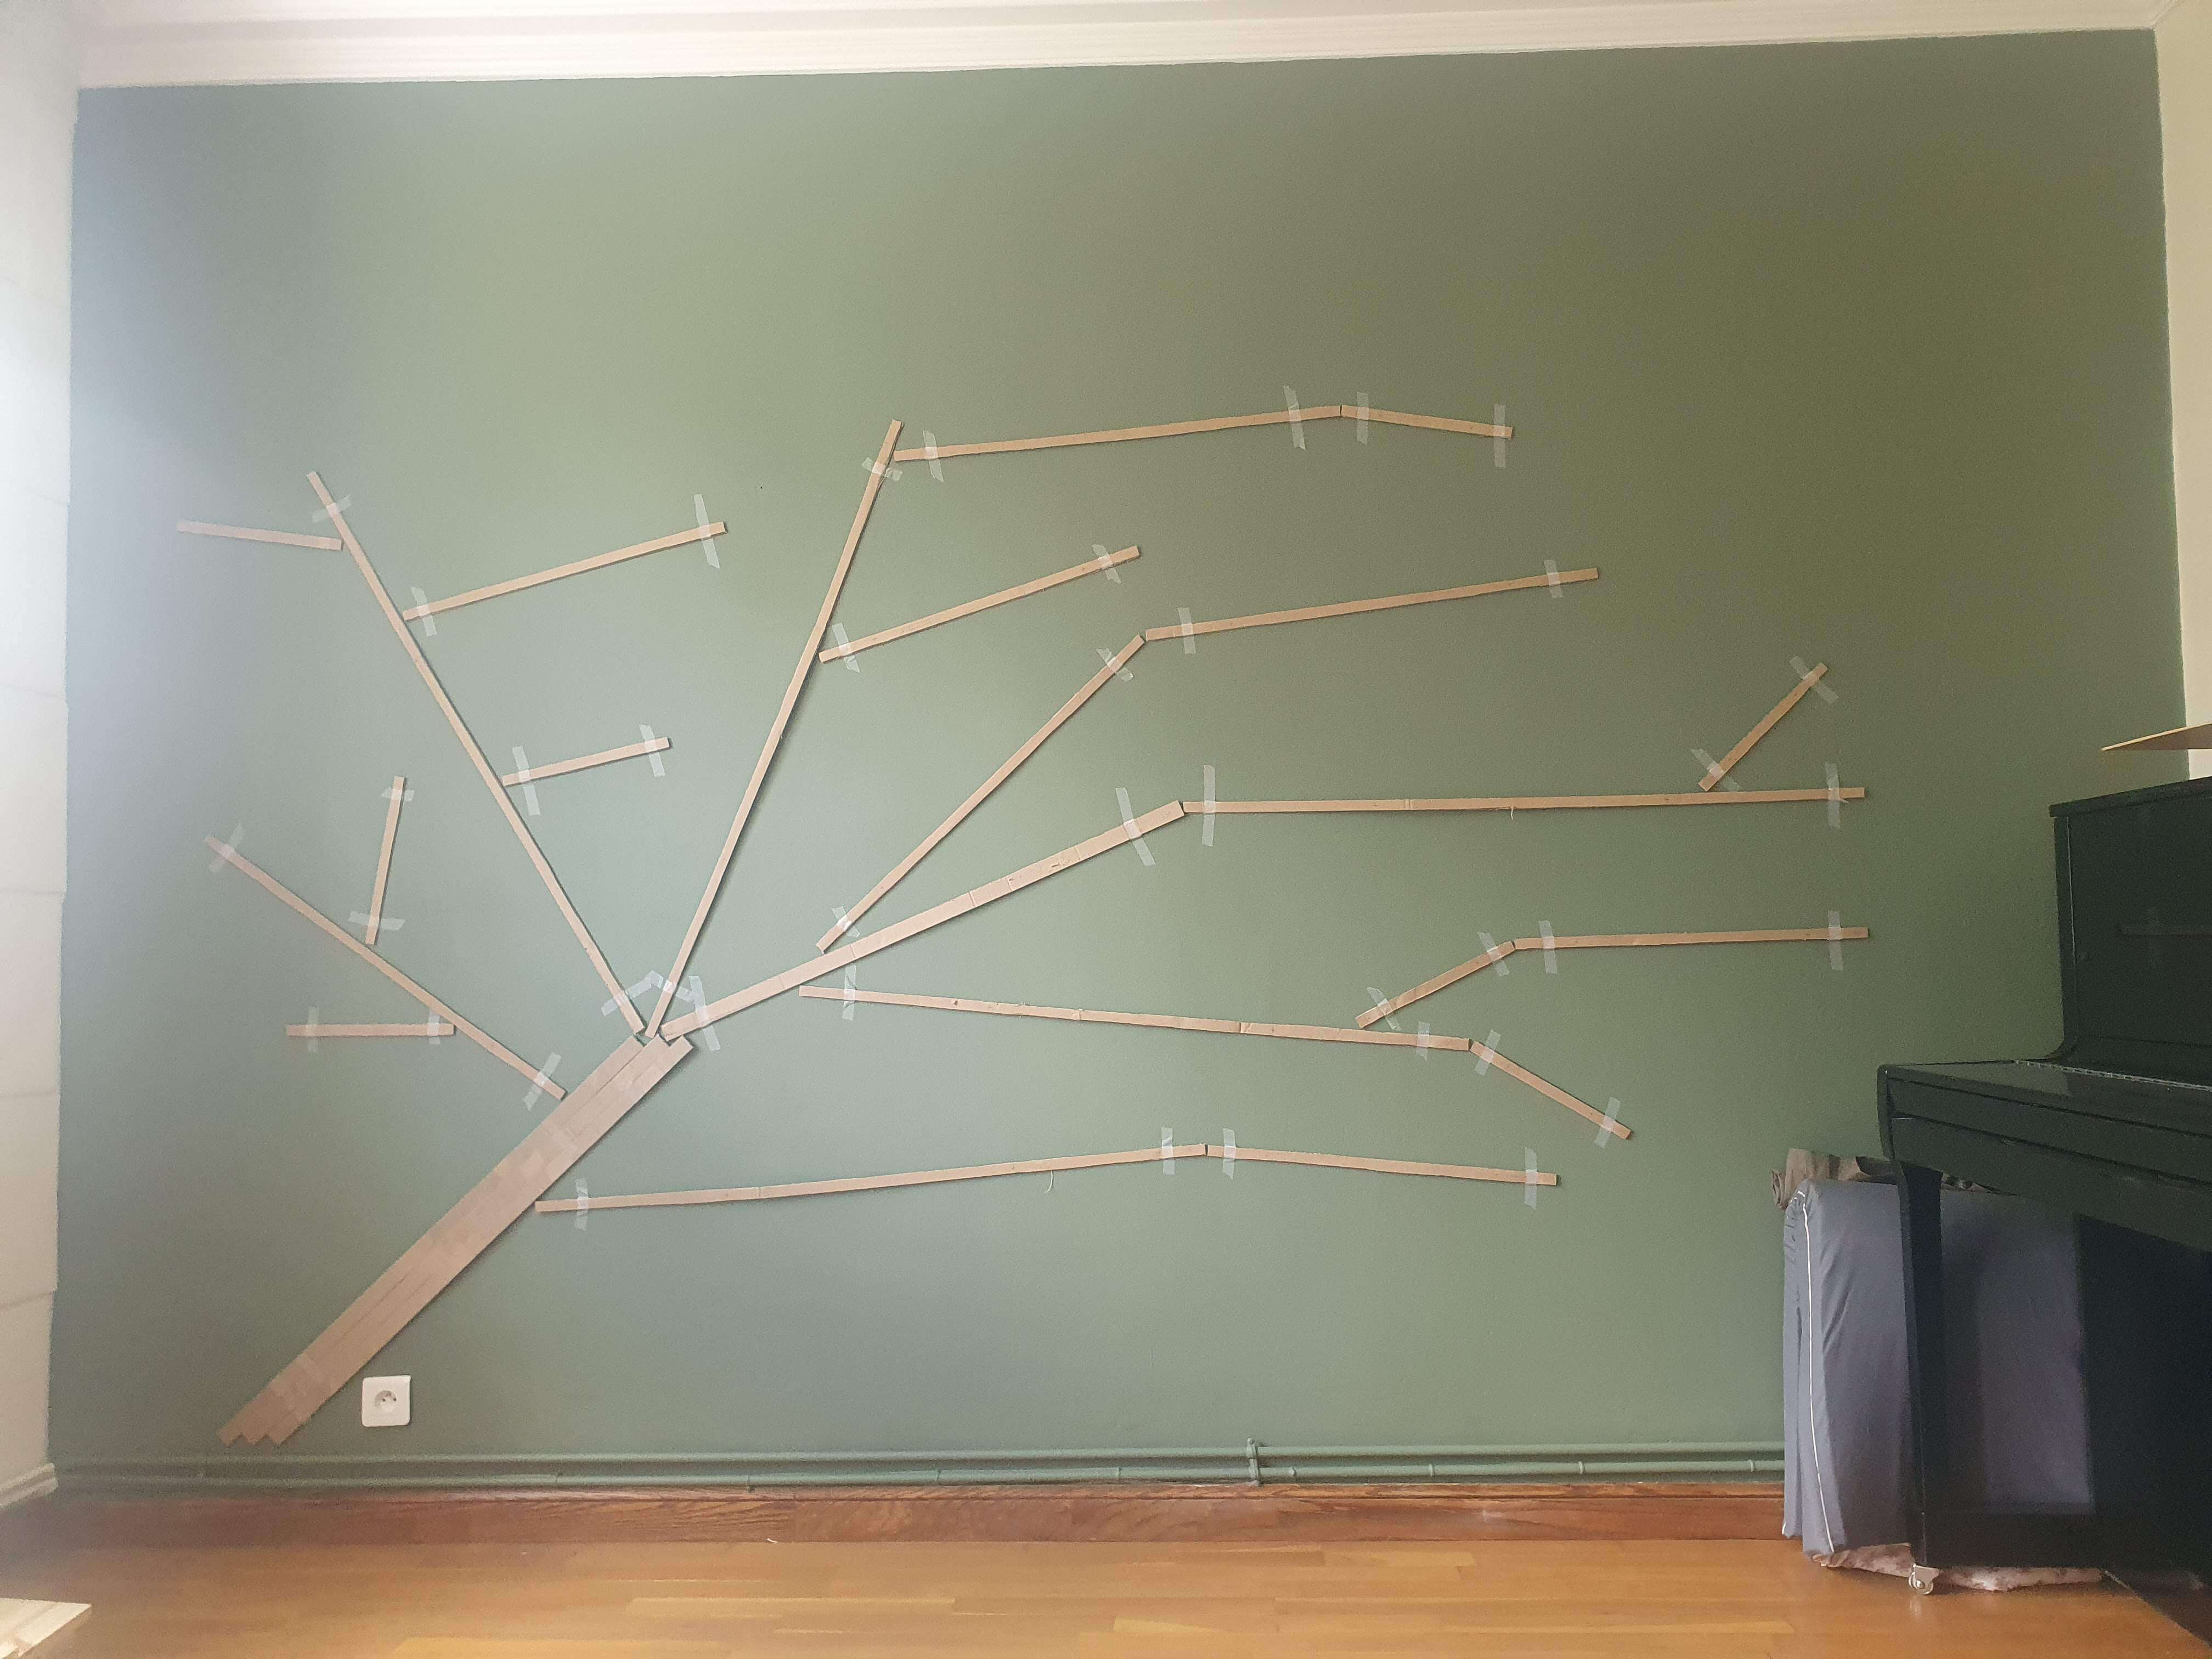
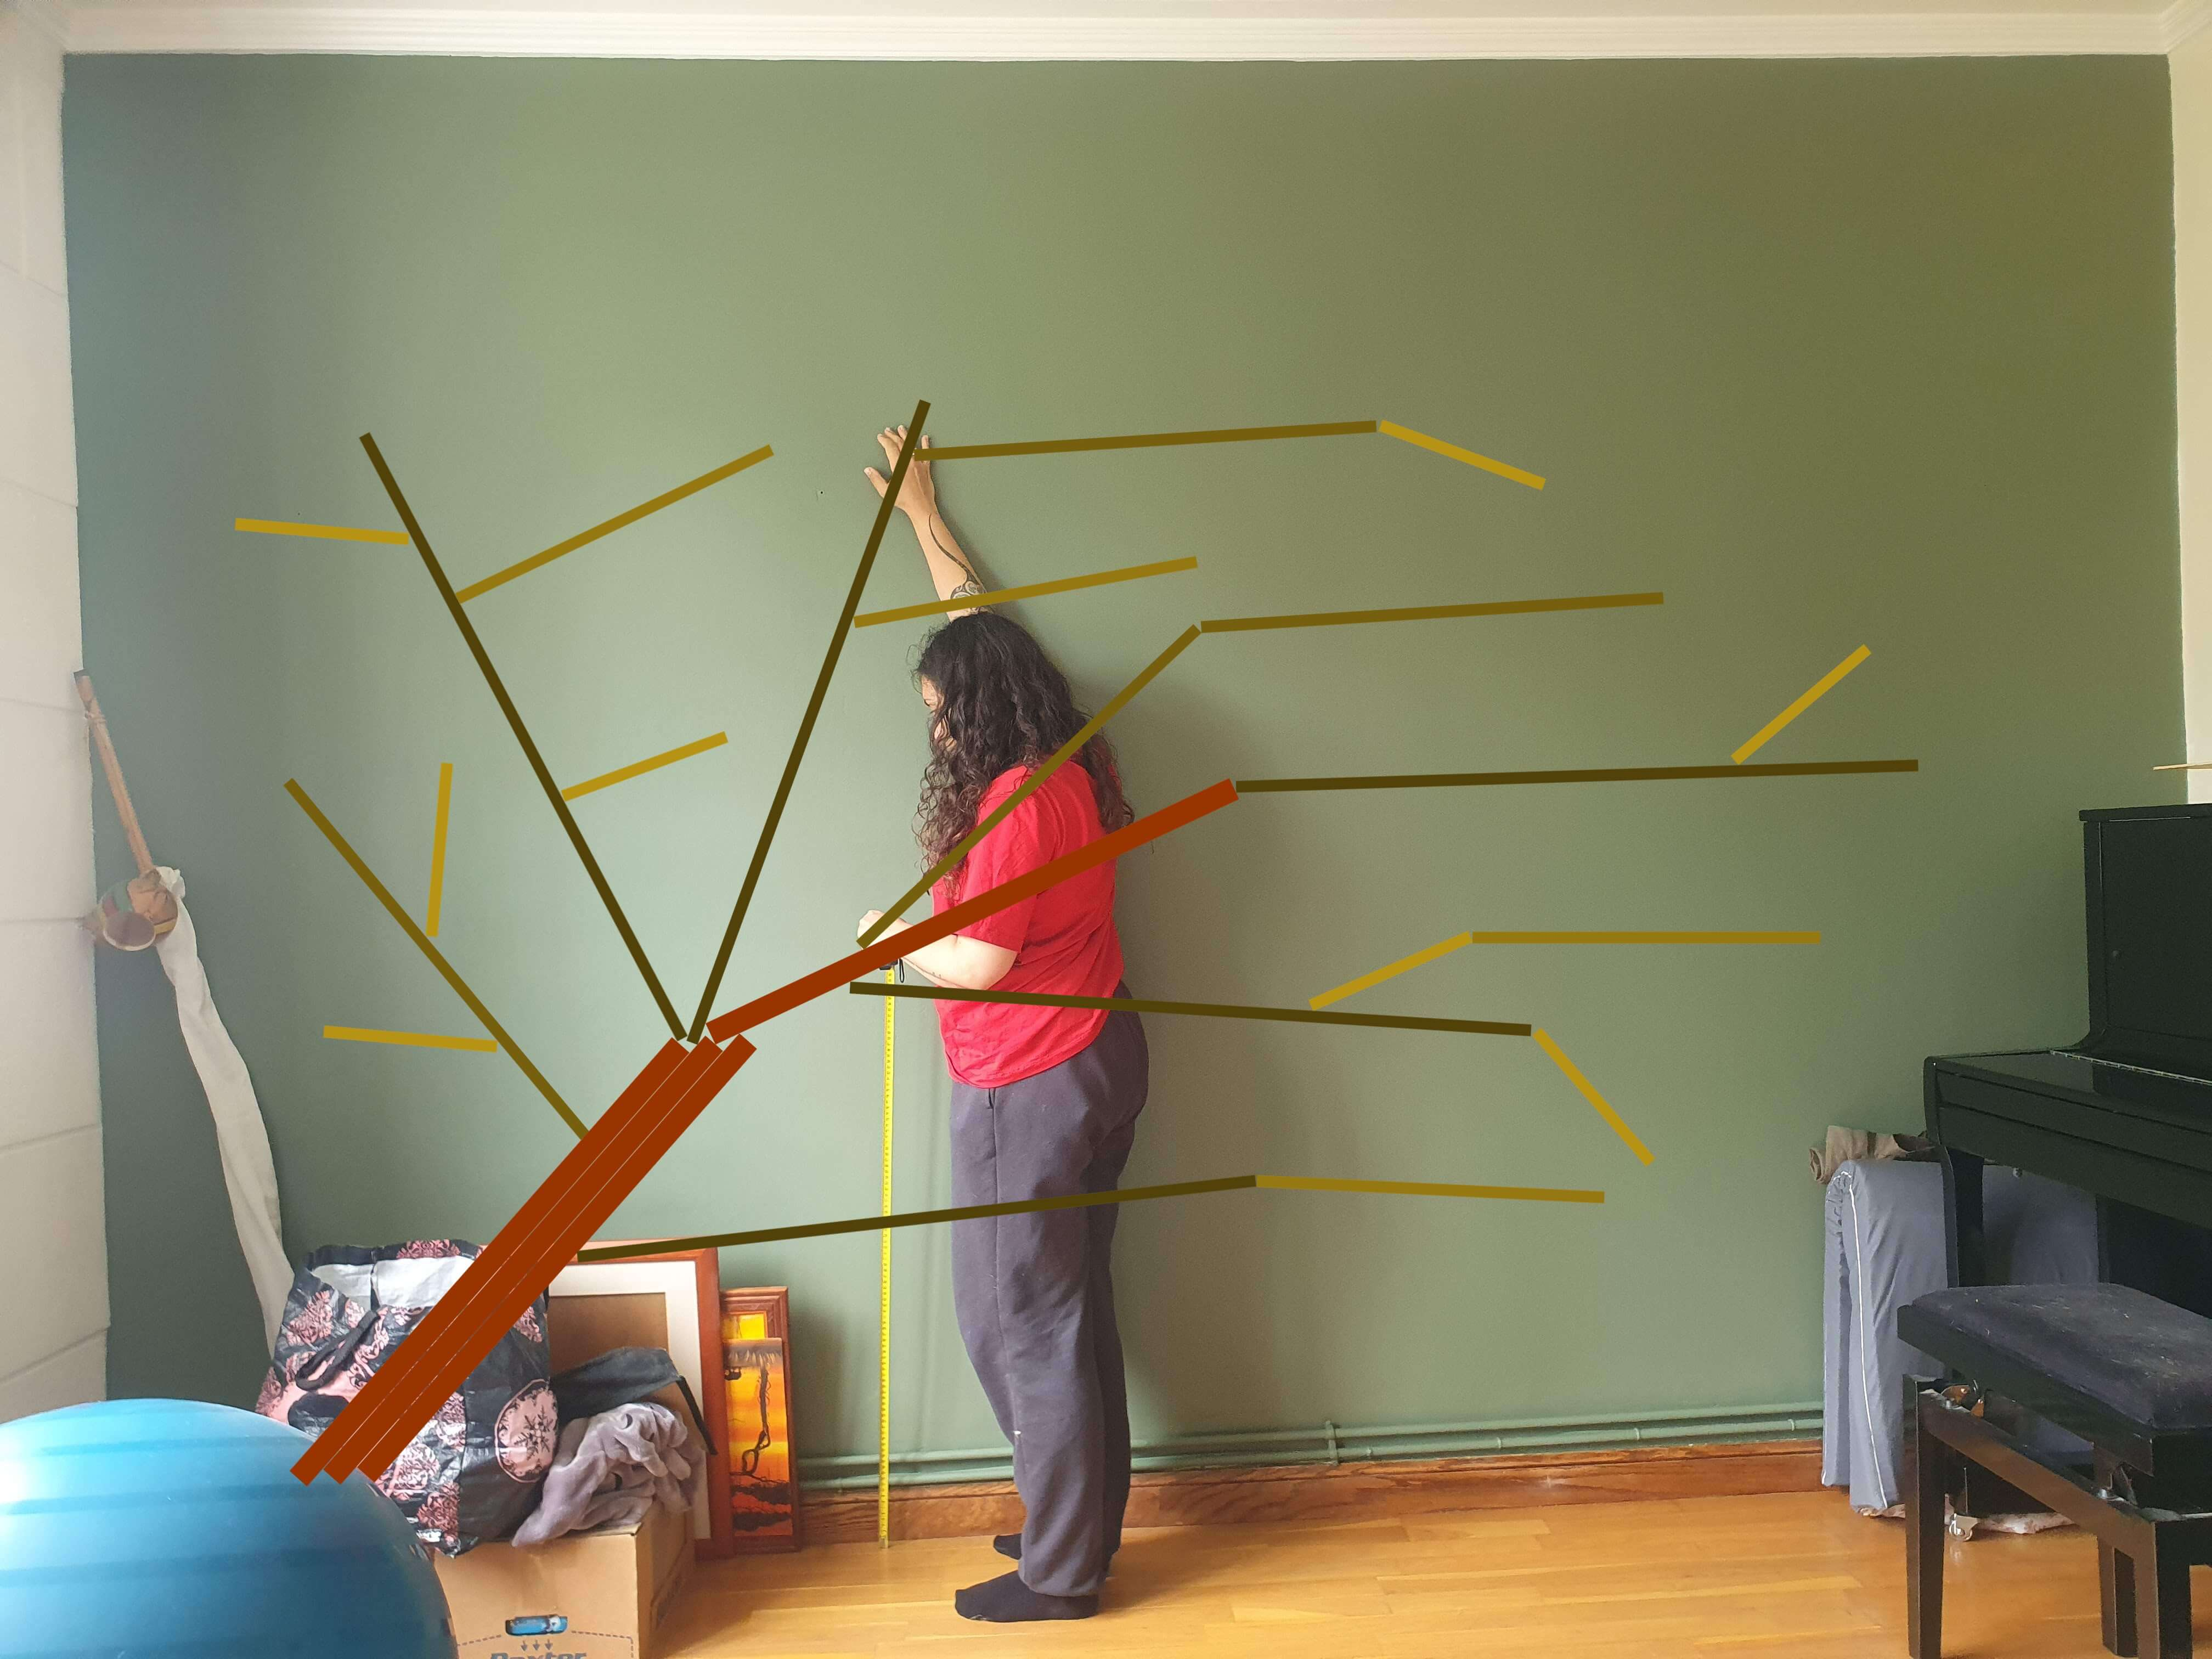
Add images

diff --git a/eleventy.config.js b/eleventy.config.js
@@ -1,9 +1,6 @@
 import { eleventyImageTransformPlugin } from "@11ty/eleventy-img";
 
 export default function (eleventyConfig) {
-    // eleventyConfig.addPassthroughCopy("**/*.{png,jpg,jpeg}", {
-    //     mode: "html-relative"
-    // });
     eleventyConfig.addPlugin(eleventyImageTransformPlugin, {
         formats: ["webp"],
     });

diff --git a/CLAUDE.md b/CLAUDE.md
@@ -1,0 +1,36 @@
+# CLAUDE.md
+
+This file provides guidance to Claude Code (claude.ai/code) when working with code in this repository.
+
+## Commands
+
+```bash
+npm run dev    # Start dev server with live reload
+npm run build  # Build static site to _site/
+```
+
+## Architecture
+
+This is an [Eleventy (11ty)](https://www.11ty.dev/) v3 static site for a French woodworking portfolio. Uses ES modules (`"type": "module"` in package.json).
+
+**Content model:** Each woodworking project lives in its own directory (e.g., `bench/`, `bookcase/`) containing an `index.md` with frontmatter and images. All project pages must have `tags: post` in frontmatter to appear in the homepage collection.
+
+**Navigation:** The homepage (`index.md`) dynamically lists all posts via `collections.post` — no manual navigation updates needed when adding projects.
+
+**Templates:** `_includes/post.html` is the only layout. It's a minimal HTML shell; `{{ content }}` receives the rendered markdown.
+
+**Image pipeline:** `eleventyImageTransformPlugin` automatically converts all `<img>` tags at build time to WebP. Source images (jpg/png) are kept in project directories; optimized WebP files are written to `_site/`.
+
+## Adding a New Project
+
+1. Create a directory (e.g., `myproject/`)
+2. Add `index.md` with this frontmatter:
+   ```yaml
+   ---
+   layout: post.html
+   title: Project Title
+   date: YYYY-MM-DD
+   tags: post
+   ---
+   ```
+3. Add images to the same directory and reference them in markdown — they'll be auto-converted to WebP on build.

diff --git a/bench/index.md b/bench/index.md
@@ -29,6 +29,8 @@ Le design reste volontairement simple et ajouré afin d’éviter un aspect trop
 
 Pour la matière, j’ai choisi des planches de chêne récupérées dans une recyclerie, ce qui permettait d’utiliser un bois plus noble tout en restant dans une logique de réemploi.
 
+<img src="./design.png" alt="3 designs pour comparaison" width="800">
+
 ## Réalisation
 
 Une fois les plans validés, la fabrication a consisté à suivre les différentes étapes prévues : découpe des planches, préperçages et préparation des assemblages.
@@ -39,6 +41,8 @@ Un premier montage à blanc a permis de vérifier les alignements et les ajustem
 
 L’ensemble forme un banc robuste, avec deux niveaux d’assise adaptés à différents usages.
 
+<img src="./cuts.png" alt="Détails des coupes à faire" width="800">
+
 ## Ce que j’ai appris
 
 Ce projet m’a rappelé l’importance de toujours prévoir un léger jeu lors de l’intégration d’un meuble dans un espace existant.
@@ -46,3 +50,5 @@ Ce projet m’a rappelé l’importance de toujours prévoir un léger jeu lors 
 Le banc avait été conçu pour s’ajuster exactement au rangement IKEA, ce qui a rendu son installation plus compliquée que prévu une fois la structure assemblée. Un léger ponçage a permis de corriger rapidement le problème.
 
 Ce type d’ajustement reste une bonne leçon : même avec un plan précis, il est préférable de garder une petite marge pour absorber les variations réelles du matériau et de l’environnement.
+
+<img src="./result.jpeg" alt="Résultat" width="800">

diff --git a/bookcase/index.md b/bookcase/index.md
@@ -24,6 +24,8 @@ Certaines étagères permettent de poser les livres à plat, tandis que d’autr
 
 Pour renforcer l’effet de tronc, j’ai choisi d’utiliser une grande planche de pin à bord vivant, afin d’apporter un contraste plus organique avec les lignes droites des étagères.
 
+<img src="./design.jpg" alt="Design" width="800">
+
 ## Réalisation
 
 La réalisation a commencé par la préparation du tronc.
@@ -36,6 +38,8 @@ Chaque élément a été positionné avec soin pour conserver la continuité du 
 
 Une fois les livres installés, quelques éléments décoratifs comme une plante et du lierre artificiel ont été ajoutés pour accentuer l’effet végétal et renforcer l’illusion de l’arbre.
 
+<img src="./setup.jpg" alt="Aperçu avec morceaux de carton" width="800">
+
 ## Ce que j’ai appris
 
 Ce projet m’a surtout permis de travailler sur la dimension d’agencement et de composition.
@@ -45,3 +49,5 @@ Le travail du bois en lui-même reste relativement limité, mais la phase de con
 Transformer une idée esthétique en installation fonctionnelle implique de jongler entre contraintes techniques, dimensions disponibles et usage réel.
 
 C’est un exercice très proche du travail d’agencement intérieur, où la précision de la planification et de la pose joue un rôle aussi important que la fabrication elle-même.
+
+<img src="./result.jpg" alt="Résultat" width="800">

diff --git a/woodpile/index.md b/woodpile/index.md
@@ -29,6 +29,8 @@ La structure repose sur 6 poteaux montés sur pieds, avec une organisation en tr
 
 Le choix s’est porté sur du pin, matériau courant en extérieur, avec une mise en œuvre volontairement simple, le projet ne nécessitant pas une précision millimétrique.
 
+<img src="./design.png" alt="Design de l'abri sous Sketchup" width="800">
+
 ## Réalisation
 
 Le montage s’est déroulé sur environ trois jours.
@@ -39,6 +41,8 @@ La partie abri a ensuite été fermée à l’aide de bardage, fixé entre les q
 
 L’ensemble du projet a été réalisé avec des matériaux standards de bricolage extérieur, dans une logique d’efficacité et de robustesse.
 
+<img src="./progress.jpg" alt="Projet en cours de réalisation" width="800">
+
 ## Ce que j’ai appris
 
 Ce projet a surtout été riche en enseignements sur le comportement du bois en extérieur.
@@ -48,4 +52,6 @@ Le bardage, initialement posé de manière trop serrée et avec une fixation ins
 De la même manière, une des sections de mur s’est révélée trop longue sans renforts intermédiaires, ce qui a nécessité l’ajout d’une traverse après coup pour rigidifier l’ensemble.
 
 Ces ajustements m’ont permis de mieux anticiper les contraintes mécaniques et les variations dimensionnelles du bois, en particulier sur des structures extérieures exposées.
+
+<img src="./result.jpg" alt="Abri et palissade finis" width="800">
 

diff --git a/busyboard/index.md b/busyboard/index.md
@@ -26,6 +26,8 @@ Les peintures utilisées proviennent d’ailleurs des restes utilisés pour repe
 
 Une attention particulière a également été portée à la sécurité et au confort : tous les éléments ont été choisis ou positionnés pour être manipulables par un enfant dès environ 8 mois, tout en évitant les pièces dangereuses ou trop bruyantes.
 
+<img src="./design.jpg" alt="Mise en places des modules pour agencement" width="800">
+
 ## Réalisation
 
 Le tableau est constitué d’une planche principale sur laquelle différents modules interactifs ont été fixés.
@@ -53,3 +55,5 @@ La poulie, quant à elle, a tendance à coincer légèrement, ce qui limite son 
 Ces retours d’usage sont précieux, car ils permettent de mieux comprendre ce qui attire réellement l’attention d’un enfant et ce qui mérite d’être amélioré.
 
 Même si l’économie réalisée est finalement limitée, ce projet reste un exercice très formateur, combinant conception, fabrication et observation du comportement utilisateur.
+
+<img src="./result.jpg" alt="Résultat" width="800">

diff --git a/wooden-tree/index.md b/wooden-tree/index.md
@@ -37,7 +37,7 @@ Le montage reste simple dans son principe, mais relativement long en raison du n
 
 Une fois assemblé, l’ensemble est stable et lisible, avec une silhouette nette et homogène.
 
-<img src="./result.jpg" width="800" alt="Résultat">
+<img src="./result.jpg" alt="Résultat" width="800">
 
 ## Ce que j’ai appris
 
@@ -48,3 +48,5 @@ La phase de préparation, notamment le calcul et la répartition des longueurs, 
 Cela m’a amené à anticiper davantage en amont, en cherchant un équilibre entre esthétique, cohérence des dimensions et limitation des pertes.
 
 C’est un projet où la simplicité apparente repose en réalité sur une bonne préparation.
+
+<img src="./decorated.jpg" alt="Sapin de bois décoré" width="800">

diff --git a/charger/index.md b/charger/index.md
@@ -26,6 +26,8 @@ Le choix des matériaux a aussi été l’occasion d’introduire une variation 
 
 Enfin, une phase de recherche a été nécessaire pour sélectionner un chargeur adapté, avec une puissance suffisante pour une charge rapide et une connectique USB-C cohérente avec les standards actuels.
 
+<img src="./design.png" alt="Design Sketchup" width="800">
+
 ## Réalisation
 
 Une première version fonctionnelle a été réalisée, servant de prototype.

diff --git a/valet/index.md b/valet/index.md
@@ -27,6 +27,8 @@ Trois vis servent de points d’accroche pour les outils, tandis que des lames d
 
 Une petite tablette horizontale, réalisée à partir d’une chute de lame de terrasse, vient compléter l’ensemble pour le rangement des accessoires légers. Le tout est assemblé sur une structure en tasseaux fins.
 
+<img src="./design.png" alt="Design" width="800">
+
 ## Réalisation
 
 Le montage est resté volontairement simple et rapide.